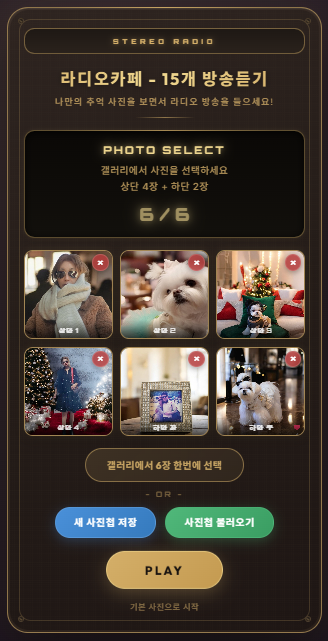
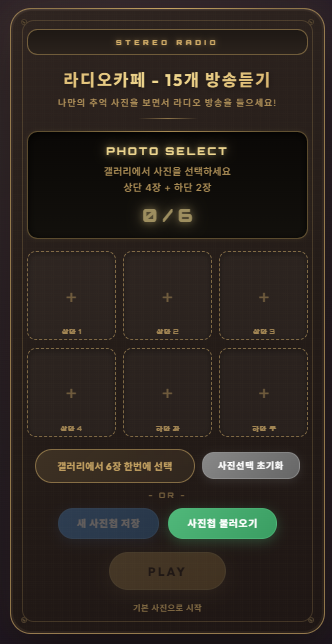
사용법 페이지 사진 선택 화면 스크린샷 교체 및 번호 업데이트
- 새 스크린샷으로 교체 (사진선택 초기화 버튼 포함)
- 마커 7개로 변경 (초기화 버튼 추가)

diff --git a/manual.html b/manual.html
@@ -333,21 +333,23 @@
         <div class="screenshot-container">
           <div class="screenshot-box">
             <img src="photo-select-screen.png" alt="사진 선택 화면">
-            <div class="marker" style="top: 18%; left: 50%; transform: translateX(-50%);">1</div>
-            <div class="marker" style="top: 45%; left: 50%; transform: translateX(-50%);">2</div>
-            <div class="marker" style="top: 68%; left: 50%; transform: translateX(-50%);">3</div>
-            <div class="marker" style="top: 78%; left: 30%;">4</div>
-            <div class="marker" style="top: 78%; left: 70%;">5</div>
-            <div class="marker" style="top: 90%; left: 50%; transform: translateX(-50%);">6</div>
+            <div class="marker" style="top: 15%; left: 50%; transform: translateX(-50%);">1</div>
+            <div class="marker" style="top: 38%; left: 50%; transform: translateX(-50%);">2</div>
+            <div class="marker" style="top: 62%; left: 30%;">3</div>
+            <div class="marker" style="top: 62%; left: 70%;">4</div>
+            <div class="marker" style="top: 72%; left: 30%;">5</div>
+            <div class="marker" style="top: 72%; left: 70%;">6</div>
+            <div class="marker" style="top: 84%; left: 50%; transform: translateX(-50%);">7</div>
           </div>
           <div class="screenshot-caption">사진 선택 화면</div>
           <div class="marker-desc">
             <div class="marker-item"><div class="marker-num">1</div><span>안내 영역 - 사진 선택 방법을 안내합니다 (상단 4장 + 하단 2장)</span></div>
             <div class="marker-item"><div class="marker-num">2</div><span>사진 슬롯 - 선택한 6장의 사진 미리보기가 표시됩니다</span></div>
             <div class="marker-item"><div class="marker-num">3</div><span>갤러리에서 6장 한번에 선택 - 한번에 여러 장을 선택할 수 있습니다</span></div>
-            <div class="marker-item"><div class="marker-num">4</div><span>새 사진첩 저장 - 현재 사진들을 새 사진첩으로 저장합니다</span></div>
-            <div class="marker-item"><div class="marker-num">5</div><span>사진첩 불러오기 - 저장된 사진첩을 불러옵니다</span></div>
-            <div class="marker-item"><div class="marker-num">6</div><span>PLAY 버튼 - 사진 선택을 완료하고 라디오 화면으로 돌아갑니다</span></div>
+            <div class="marker-item"><div class="marker-num">4</div><span>사진선택 초기화 - 선택한 사진을 모두 초기화합니다</span></div>
+            <div class="marker-item"><div class="marker-num">5</div><span>새 사진첩 저장 - 현재 사진들을 새 사진첩으로 저장합니다</span></div>
+            <div class="marker-item"><div class="marker-num">6</div><span>사진첩 불러오기 - 저장된 사진첩을 불러옵니다</span></div>
+            <div class="marker-item"><div class="marker-num">7</div><span>PLAY 버튼 - 사진 선택을 완료하고 라디오 화면으로 돌아갑니다</span></div>
           </div>
         </div>
 
